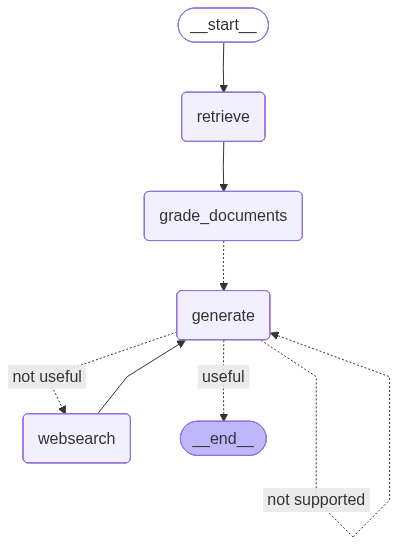
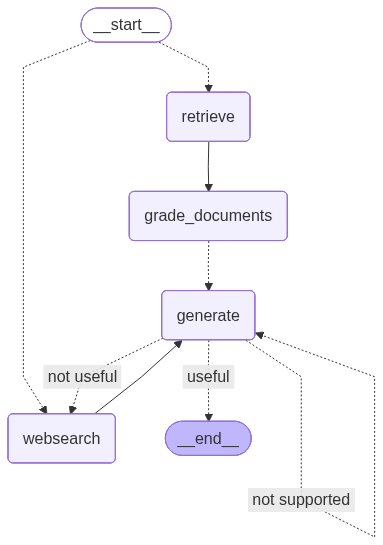
Add question router

diff --git a/graph/graph_app.py b/graph/graph_app.py
@@ -3,6 +3,7 @@
 from dotenv import load_dotenv
 from langgraph.graph import StateGraph, START, END
 
+from graph.chains.question_router import question_router
 from graph.chains.answer_grader import answer_grader
 from graph.chains.hallucination_grader import hallucination_grader
 from graph.consts import *
@@ -14,12 +15,12 @@ load_dotenv()
 # 用来判断条件边的函数们：
 def deside_to_generate(state: GraphState) -> bool:
     if state['web_search']:
-        return WEBSEARCH
+        return WEBSEARCH_CONST
     else:
-        return GENERATE
+        return GENERATE_CONST
 
 
-# 用 useful 和 not useful 来判断 generation 是否有用，从而决定要走向哪个 node: WEBSEARCH 或 END
+# 用 useful 和 not useful 来判断 generation 是否有用，从而决定要走向哪个 node: WEBSEARCH_CONST 或 END
 # 用 "not supported" 来判断要不要重新生成答案
 def grade_generation_grounded_in_documents_and_question(state: GraphState) -> str:
 
@@ -46,39 +47,60 @@ def grade_generation_grounded_in_documents_and_question(state: GraphState) -> st
         return "not supported"
 
 
+def route_question(state: GraphState) -> str:
+    print("----ROUTE QUESTION----")
+    question = state['question']
+    router_output = question_router.invoke({"question": question})
+    if router_output.datasource == "vector_store":
+        print("----DECISION: Route question to vector store----")
+        return RETRIEVE_CONST
+    else:
+        print("----DECISION: Route question to web search----")
+        return WEBSEARCH_CONST
+
+
 
 # 创建工作流图, 用来连接各个节点和边
 workflow = StateGraph(GraphState)
 
-workflow.add_node(RETRIEVE, retrieve)
-workflow.add_node(GRADE_DOCUMENTS, grade_documents)
-workflow.add_node(GENERATE, generate)
-workflow.add_node(WEBSEARCH, web_search)
+workflow.add_node(RETRIEVE_CONST, retrieve)
+workflow.add_node(GRADE_DOCUMENTS_CONST, grade_documents)
+workflow.add_node(GENERATE_CONST, generate)
+workflow.add_node(WEBSEARCH_CONST, web_search)
 
-workflow.add_edge(START, RETRIEVE) # 跟 workflow.set_entry_point(RETRIEVE) 一样
-workflow.add_edge(RETRIEVE, GRADE_DOCUMENTS)
+# 添加 conditional entry point, 用来根据 question 路由到不同的 node
+workflow.set_conditional_entry_point(
+    route_question,
+    {
+        RETRIEVE_CONST: RETRIEVE_CONST,
+        WEBSEARCH_CONST: WEBSEARCH_CONST
+    }
+)
+# 这行要删掉了，因为已经用 conditional entry point 代替了
+# workflow.add_edge(START, RETRIEVE_CONST) # 跟 workflow.set_entry_point(RETRIEVE_CONST) 一样
+workflow.add_edge(RETRIEVE_CONST, GRADE_DOCUMENTS_CONST)
 
 workflow.add_conditional_edges(
-    GRADE_DOCUMENTS, 
+    GRADE_DOCUMENTS_CONST, 
     deside_to_generate, 
     {
-        WEBSEARCH: GENERATE,
-        GENERATE: GENERATE
+        WEBSEARCH_CONST: GENERATE_CONST,
+        GENERATE_CONST: GENERATE_CONST
     }
 )
 
 workflow.add_conditional_edges(
-    GENERATE,
+    GENERATE_CONST,
     grade_generation_grounded_in_documents_and_question,
     {
         "useful": END,
-        "not useful": WEBSEARCH,
-        "not supported": GENERATE
+        "not useful": WEBSEARCH_CONST,
+        "not supported": GENERATE_CONST
     }
 )
 
-workflow.add_edge(WEBSEARCH, GENERATE)
-workflow.add_edge(GENERATE, END)
+workflow.add_edge(WEBSEARCH_CONST, GENERATE_CONST)
+workflow.add_edge(GENERATE_CONST, END)
 
 app = workflow.compile()
 

diff --git a/graph/chains/question_router.py b/graph/chains/question_router.py
@@ -1,0 +1,42 @@
+from typing import Literal
+import os
+from langchain_core.prompts import ChatPromptTemplate
+from langchain_core.runnables import RunnableSequence
+from pydantic import BaseModel, Field
+from langchain_openai import AzureChatOpenAI
+
+
+class RouteQuery(BaseModel):
+    """Route a user query to the most relevant datasource"""
+
+    # 用 datasource 这个字段来保存 vector store 里的值 或者 web search 里的值
+    # Literal 是 Python 的类型提示，表示只能取给定的值中的一个, 所以输出的结果只能是 vector_store 或者 web_search
+    datasource: Literal["vector_store", "web_search"] = Field(
+        # python 语法里，Field 里加上省略号表示这个字段是必填的
+        ..., 
+        description="The datasource to use to answer the user's query"
+    )
+
+
+
+llm = AzureChatOpenAI(
+    temperature=0,
+    azure_endpoint=os.getenv("AZURE_OPENAI_ENDPOINT"),
+    azure_deployment=os.getenv("AZURE_OPENAI_DEPLOYMENT_NAME"),
+    api_version=os.getenv("AZURE_OPENAI_API_VERSION"),
+    api_key=os.getenv("AZURE_OPENAI_API_KEY"),
+)
+
+structured_llm_router = llm.with_structured_output(RouteQuery)
+
+system = """You are an expert at routing a user question to a vectorstore or web search.
+The vectorstore contains documents related to agents, prompt engineering, and adversarial attacks.
+Use the vectorstore for questions on these topics. For all else, use web-search."""
+route_prompt = ChatPromptTemplate.from_messages(
+    [
+        ("system", system),
+        ("human", "{question}"),
+    ]
+)
+
+question_router: RunnableSequence = route_prompt | structured_llm_router

diff --git a/graph/consts.py b/graph/consts.py
@@ -1,6 +1,6 @@
 # 定义一些对 node 的引用, to avoid code duplication
 
-RETRIEVE = "retrieve"
-GRADE_DOCUMENTS = "grade_documents"
-GENERATE = "generate"
-WEBSEARCH = "websearch"
+RETRIEVE_CONST = "retrieve"
+GRADE_DOCUMENTS_CONST = "grade_documents"
+GENERATE_CONST = "generate"
+WEBSEARCH_CONST = "websearch"

diff --git a/main.py b/main.py
@@ -5,5 +5,5 @@ load_dotenv()
 from graph.graph_app import app
 
 if __name__ == "__main__":
-    print("Hello Advanced RAG")
+    print("Hello Adaptive RAG")
     print(app.invoke(input={"question": "what is the agent memory?"}))

diff --git a/readme.md b/readme.md
@@ -1,16 +1,13 @@
-# Self RAG
+# Adaptive RAG
 
 ## Objective
 
-在分支 project/xxt-agentic-rag-graph 的基础上，在实现了一个 RAG 的基础上，再添加一个 reflection, 用于检查当前生成的答案 is hallucinated or not. 答案是否产生了幻觉。
+在分支 project/xxt-self-rag 的基础上，添加一个问题导航功能，简单来说，就是用一个 question router to route question to different RAG flows.
+所以改变之前的逻辑为:
+判断用户的问题在 vector store 中是否已经存在，如果有，就直接 rag 查询,走向 retrieve node；否则就去 web search，走向 websearch node.
 
 ### Roles
 
-- hallucination_grader chain 
-- answer_grader chain
-- graph_app.py 调度者，在这里添加 conditional edge
+question_router.py chain 
+conditional entry: conditional edge with the first node of the entry point
 
-#### hallucination_grader.py
-
-A chain to determine whether the answer we get back from LLM, the generation is grounded in the documents.
-创建一个 chain，用来判断 LLM 生成的答案，是否真的基于检索到的 documents，而不是模型自己编出来的。
